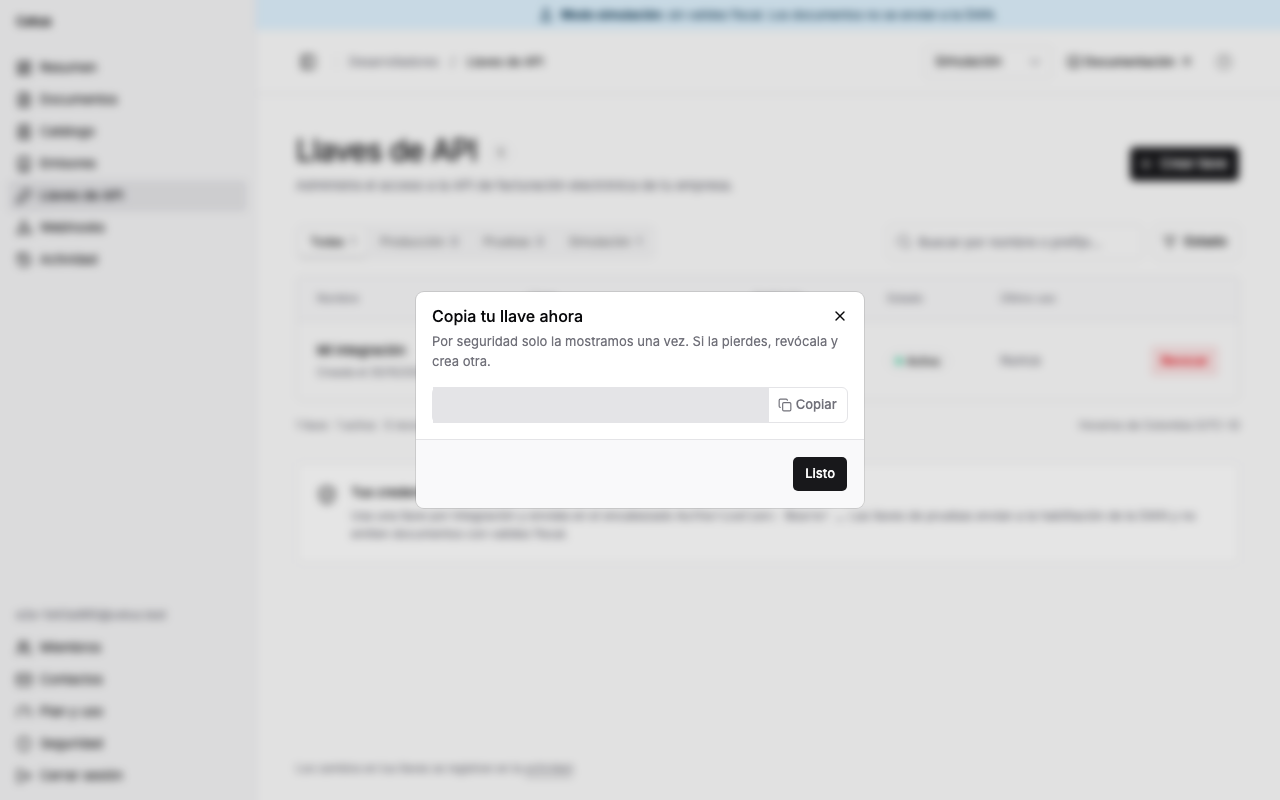
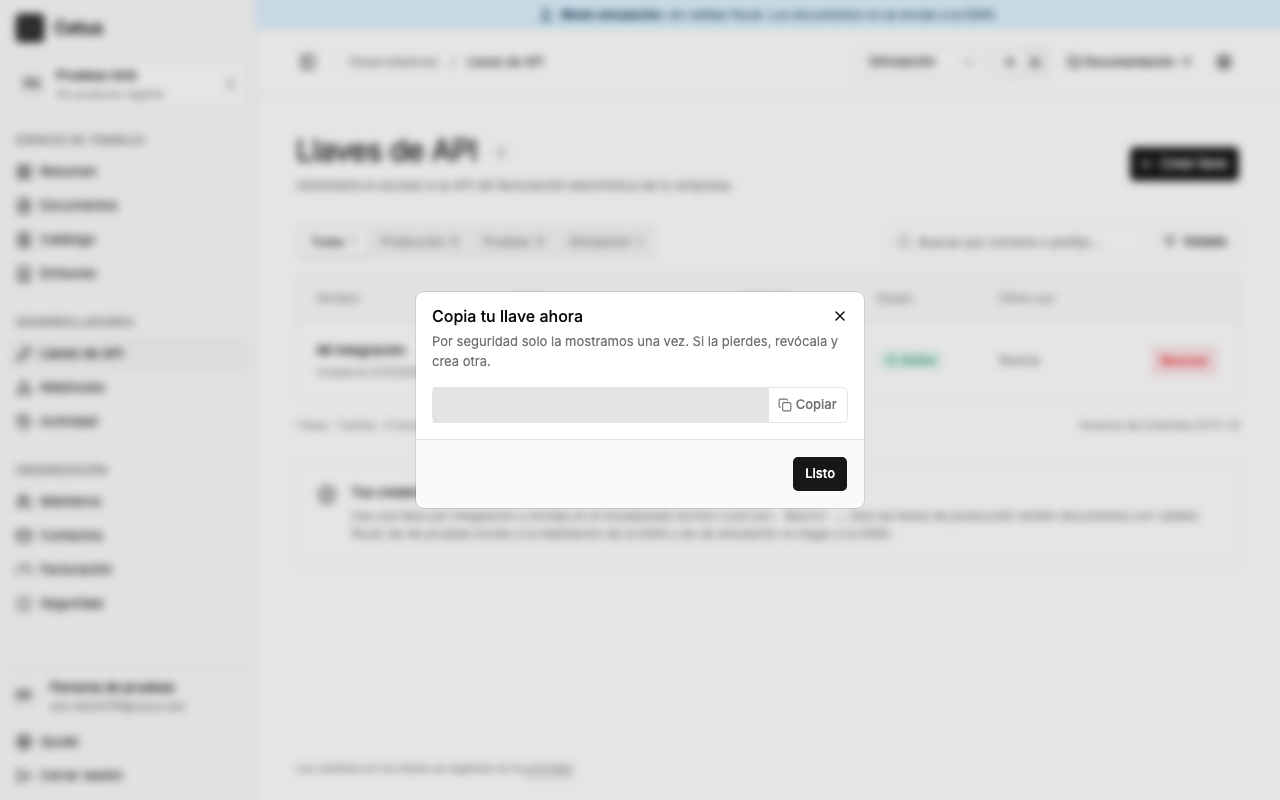
[docs] Retake the console screenshots (#190)
The console changed since phase 7. The captures now disable animations, so
a dialog is no longer caught mid-transition. The new key dialog and the
credentials card said only test keys went to the DIAN's habilitación,
which predates the simulation; they now hold for every environment.

diff --git a/apps/console/src/routes/_app/developers/api-keys/index.tsx b/apps/console/src/routes/_app/developers/api-keys/index.tsx
@@ -286,8 +286,9 @@ function ApiKeys() {
         <AlertDescription>
           <p>
             Usa una llave por integración y envíala en el encabezado{" "}
-            <code>Authorization: Bearer …</code>. Las llaves de pruebas envían a la habilitación de
-            la DIAN y no emiten documentos con validez fiscal.
+            <code>Authorization: Bearer …</code>. Solo las llaves de producción emiten documentos
+            con validez fiscal: las de pruebas envían a la habilitación de la DIAN y las de
+            simulación no llegan a la DIAN.
           </p>
         </AlertDescription>
       </Alert>
@@ -460,7 +461,7 @@ function CreateApiKeyDialog() {
             <DialogHeader>
               <DialogTitle>Nueva llave</DialogTitle>
               <DialogDescription>
-                Las llaves de pruebas envían a la habilitación de la DIAN.
+                Cada llave trabaja en un solo ambiente: lo que emites con ella solo existe allí.
               </DialogDescription>
             </DialogHeader>
             <FieldGroup>

diff --git a/apps/console/tests/screenshots/quickstart.spec.ts b/apps/console/tests/screenshots/quickstart.spec.ts
@@ -12,7 +12,12 @@ async function open(page: Page, path: string) {
 }
 
 async function capture(page: Page, name: string, mask: Locator[] = []) {
-  await page.screenshot({ path: `${directory}${name}.png`, mask, maskColor: "#e4e4e7" });
+  await page.screenshot({
+    path: `${directory}${name}.png`,
+    mask,
+    maskColor: "#e4e4e7",
+    animations: "disabled",
+  });
 }
 
 // A confirmed address, so the screens show no banner asking for it.
